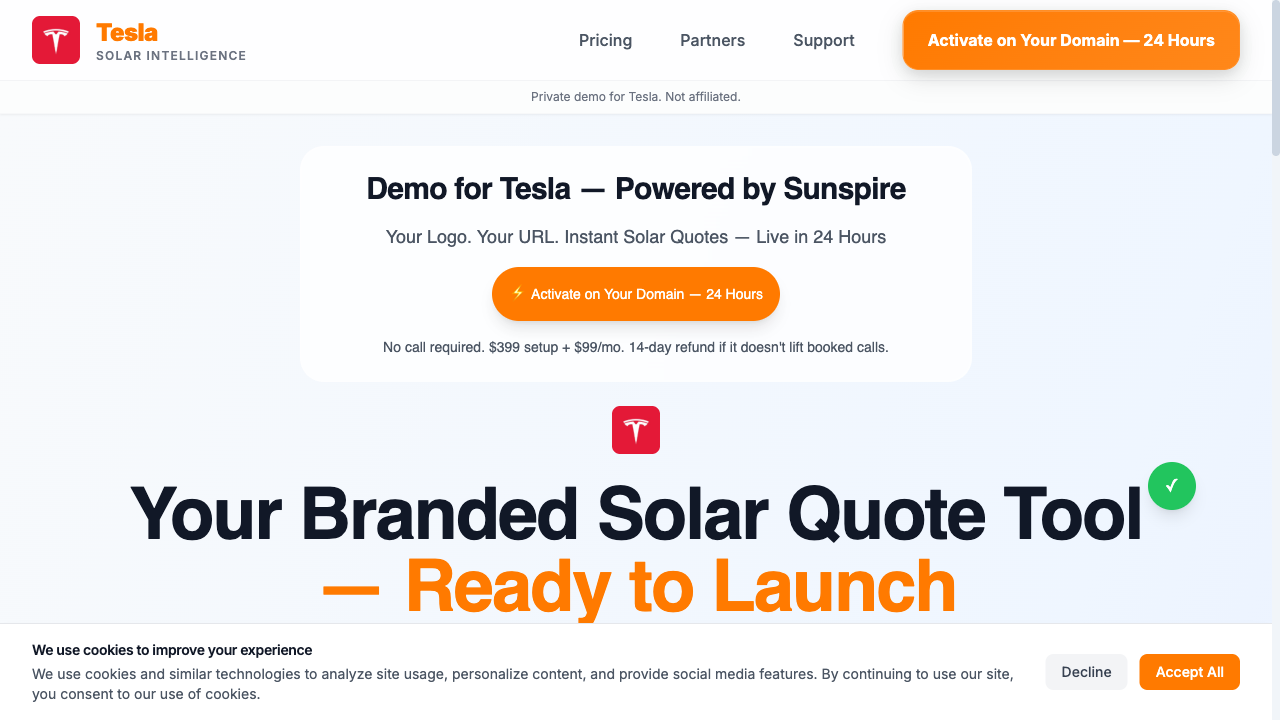
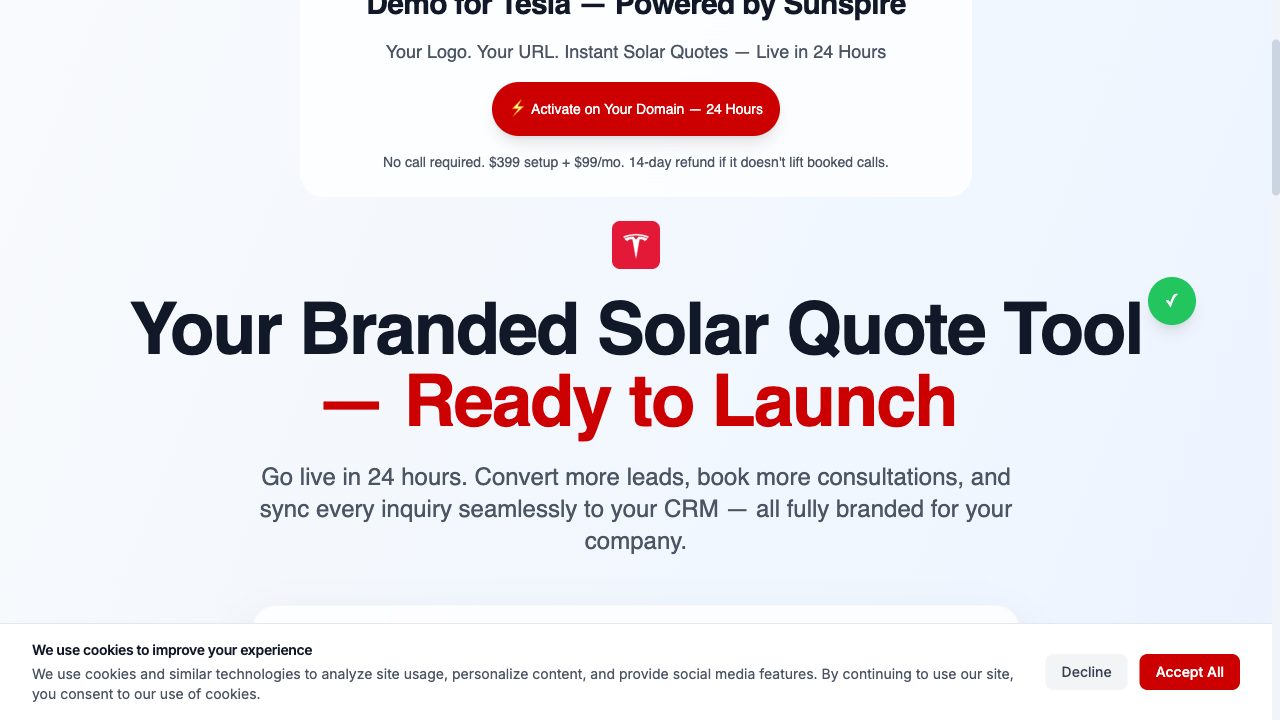
Complete brand consistency fixes - Tesla red applied everywhere

diff --git a/tests/test-brand-takeover-state.spec.ts b/tests/test-brand-takeover-state.spec.ts
@@ -1,0 +1,106 @@
+import { test, expect } from '@playwright/test';
+
+test('Test Brand Takeover State on Home Page', async ({ page }) => {
+  console.log('🔍 Testing brand takeover state on home page...');
+  
+  // Add cache busting parameter
+  const testUrl = 'https://sunspire-web-app.vercel.app/report?address=1&lat=40.7128&lng=-74.0060&placeId=demo&company=Tesla&demo=1&cb=' + Date.now();
+  
+  // Clear ALL localStorage and sessionStorage
+  await page.goto('https://sunspire-web-app.vercel.app/');
+  await page.evaluate(() => {
+    localStorage.clear();
+    sessionStorage.clear();
+  });
+  
+  console.log('🔍 Loading Tesla report page...');
+  await page.goto(testUrl);
+  await page.waitForLoadState('networkidle');
+  await page.waitForTimeout(2000);
+  
+  // Click "New Analysis" button
+  console.log('🔍 Clicking New Analysis button...');
+  await page.click('text=New Analysis');
+  await page.waitForLoadState('networkidle');
+  await page.waitForTimeout(3000);
+  
+  // Check brand takeover state on home page
+  const brandState = await page.evaluate(() => {
+    const stored = localStorage.getItem('sunspire-brand-takeover');
+    let parsed = null;
+    if (stored) {
+      try {
+        parsed = JSON.parse(stored);
+      } catch (e) {
+        console.error('Failed to parse stored brand state:', e);
+      }
+    }
+    
+    return {
+      stored: stored,
+      parsed: parsed,
+      enabled: parsed?.enabled,
+      brand: parsed?.brand,
+      primary: parsed?.primary
+    };
+  });
+  console.log('📊 Brand takeover state:', brandState);
+  
+  // Check if BrandProvider is running
+  const brandProviderInfo = await page.evaluate(() => {
+    // Check if there are any console logs from BrandProvider
+    const logs = [];
+    const originalLog = console.log;
+    console.log = (...args) => {
+      if (args[0] && args[0].includes('BrandProvider')) {
+        logs.push(args.join(' '));
+      }
+      originalLog.apply(console, args);
+    };
+    
+    // Trigger a re-render by changing a CSS variable
+    document.documentElement.style.setProperty('--test-var', 'test');
+    
+    return {
+      logs: logs,
+      hasBrandProviderLogs: logs.length > 0
+    };
+  });
+  console.log('📊 BrandProvider info:', brandProviderInfo);
+  
+  // Check CSS variables
+  const cssVars = await page.evaluate(() => {
+    return {
+      brandPrimary: getComputedStyle(document.documentElement).getPropertyValue('--brand-primary'),
+      brand: getComputedStyle(document.documentElement).getPropertyValue('--brand')
+    };
+  });
+  console.log('🎨 CSS Variables:', cssVars);
+  
+  // Force apply brand colors manually
+  const manualApply = await page.evaluate(() => {
+    const stored = localStorage.getItem('sunspire-brand-takeover');
+    if (stored) {
+      const parsed = JSON.parse(stored);
+      if (parsed.enabled && parsed.primary) {
+        document.documentElement.style.setProperty('--brand-primary', parsed.primary);
+        document.documentElement.style.setProperty('--brand', parsed.primary);
+        console.log('Manually applied brand colors:', parsed.primary);
+        return true;
+      }
+    }
+    return false;
+  });
+  console.log('📊 Manual apply result:', manualApply);
+  
+  // Check CSS variables after manual apply
+  const cssVarsAfter = await page.evaluate(() => {
+    return {
+      brandPrimary: getComputedStyle(document.documentElement).getPropertyValue('--brand-primary'),
+      brand: getComputedStyle(document.documentElement).getPropertyValue('--brand')
+    };
+  });
+  console.log('🎨 CSS Variables after manual apply:', cssVarsAfter);
+  
+  console.log('🎯 Brand takeover state test complete');
+});

diff --git a/tests/test-url-parameters.spec.ts b/tests/test-url-parameters.spec.ts
@@ -1,0 +1,66 @@
+import { test, expect } from '@playwright/test';
+
+test('Test URL Parameters on Home Page', async ({ page }) => {
+  console.log('🔍 Testing URL parameters on home page...');
+  
+  // Add cache busting parameter
+  const testUrl = 'https://sunspire-web-app.vercel.app/report?address=1&lat=40.7128&lng=-74.0060&placeId=demo&company=Tesla&demo=1&cb=' + Date.now();
+  
+  // Clear ALL localStorage and sessionStorage
+  await page.goto('https://sunspire-web-app.vercel.app/');
+  await page.evaluate(() => {
+    localStorage.clear();
+    sessionStorage.clear();
+  });
+  
+  console.log('🔍 Loading Tesla report page...');
+  await page.goto(testUrl);
+  await page.waitForLoadState('networkidle');
+  await page.waitForTimeout(2000);
+  
+  // Click "New Analysis" button
+  console.log('🔍 Clicking New Analysis button...');
+  await page.click('text=New Analysis');
+  await page.waitForLoadState('networkidle');
+  await page.waitForTimeout(2000);
+  
+  // Check URL parameters on home page
+  const urlInfo = await page.evaluate(() => {
+    const url = new URL(window.location.href);
+    const params = {};
+    for (const [key, value] of url.searchParams.entries()) {
+      params[key] = value;
+    }
+    return {
+      href: window.location.href,
+      params: params,
+      hasPrimary: url.searchParams.has('primary'),
+      primaryValue: url.searchParams.get('primary')
+    };
+  });
+  console.log('📊 Home page URL info:', urlInfo);
+  
+  // Check what useBrandColors is doing
+  const brandColorsInfo = await page.evaluate(() => {
+    const sp = new URLSearchParams(window.location.search);
+    const primary = sp.get('primary');
+    const a = primary && /^%23?[0-9a-fA-F]{6}$/.test(primary) ? decodeURIComponent(primary) : null;
+    return {
+      primary: primary,
+      decoded: a,
+      willApply: !!a
+    };
+  });
+  console.log('📊 useBrandColors info:', brandColorsInfo);
+  
+  // Check CSS variables
+  const cssVars = await page.evaluate(() => {
+    return {
+      brandPrimary: getComputedStyle(document.documentElement).getPropertyValue('--brand-primary'),
+      brand: getComputedStyle(document.documentElement).getPropertyValue('--brand')
+    };
+  });
+  console.log('🎨 CSS Variables:', cssVars);
+  
+  console.log('🎯 URL parameters test complete');
+});
